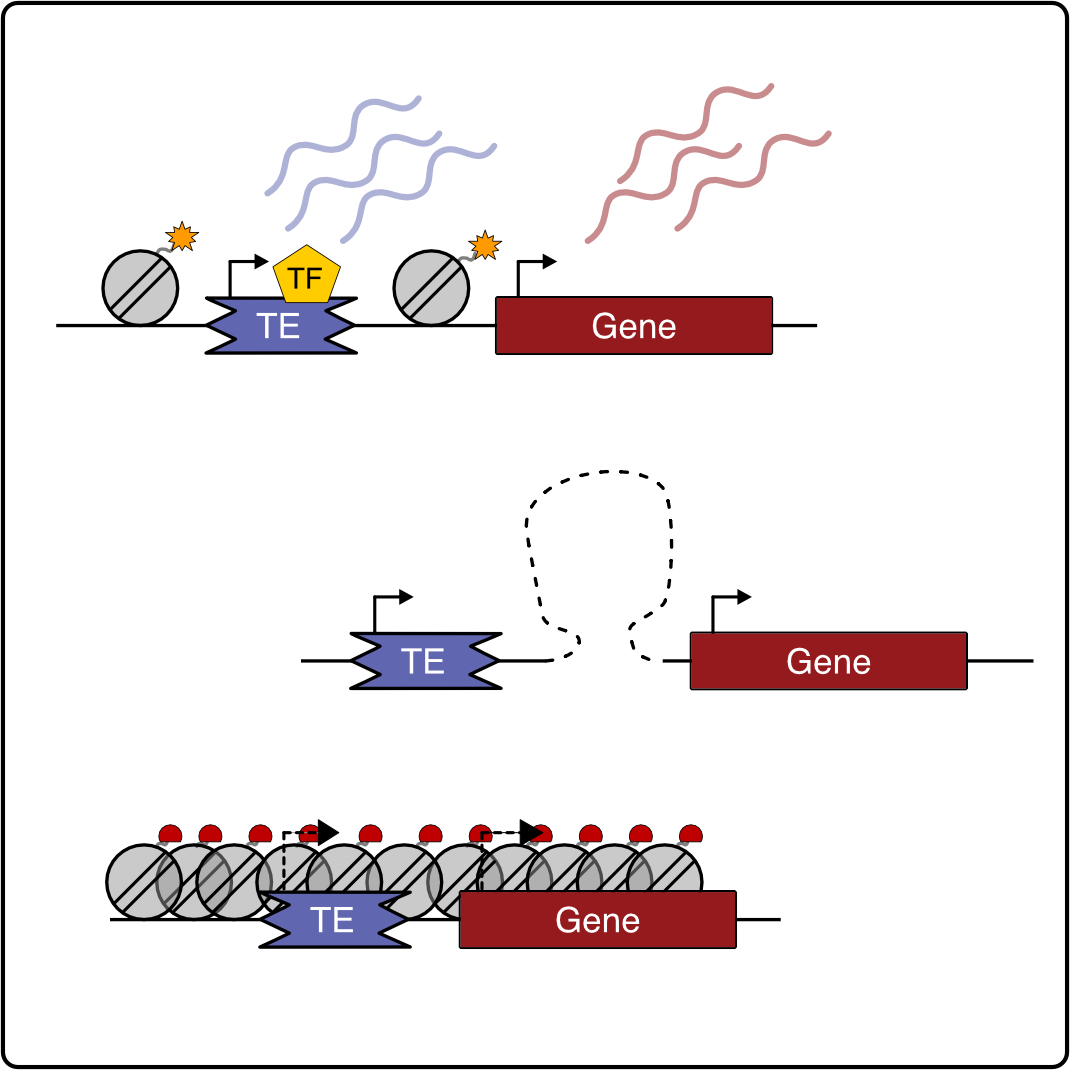
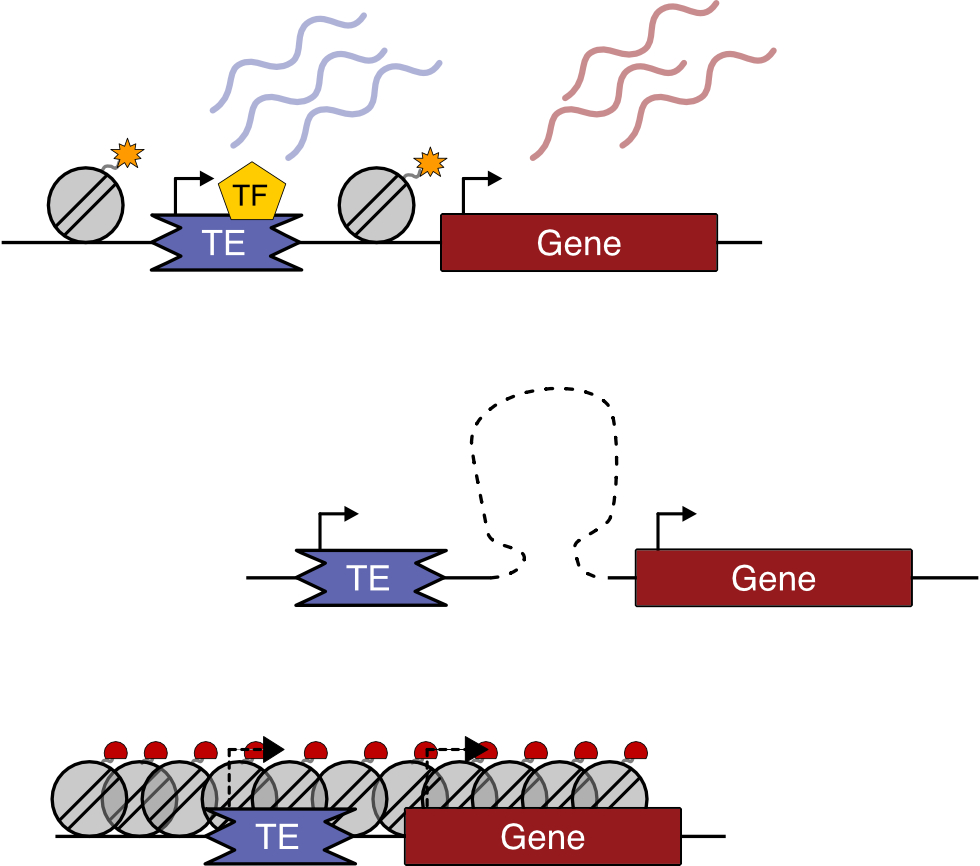
fixing images project page plus alt text

diff --git a/_includes/card.html b/_includes/card.html
@@ -9,7 +9,7 @@
   >
     <img
       src="{{ include.image | relative_url | uri_escape }}"
-      alt="{{ include.title | default: "card image" | regex_strip }}"
+      alt="{{ include.alt | default: include.title | default: "card image" | regex_strip }}"
       loading="lazy"
       {% include fallback.html %}
     >

diff --git a/_styles/card.scss b/_styles/card.scss
@@ -6,7 +6,7 @@
   justify-content: stretch;
   align-items: center;
   flex-direction: column;
-  width: 350px;
+  width: 450px;
   max-width: calc(100% - 20px - 20px);
   margin: 20px;
   background: var(--background);

diff --git a/_includes/list.html b/_includes/list.html
@@ -25,6 +25,7 @@
     {%
       include {{ include.component | append: ".html" }}
       affiliation=d.affiliation
+      alt=d.alt
       author=d.author
       authors=d.authors
       buttons=d.buttons
